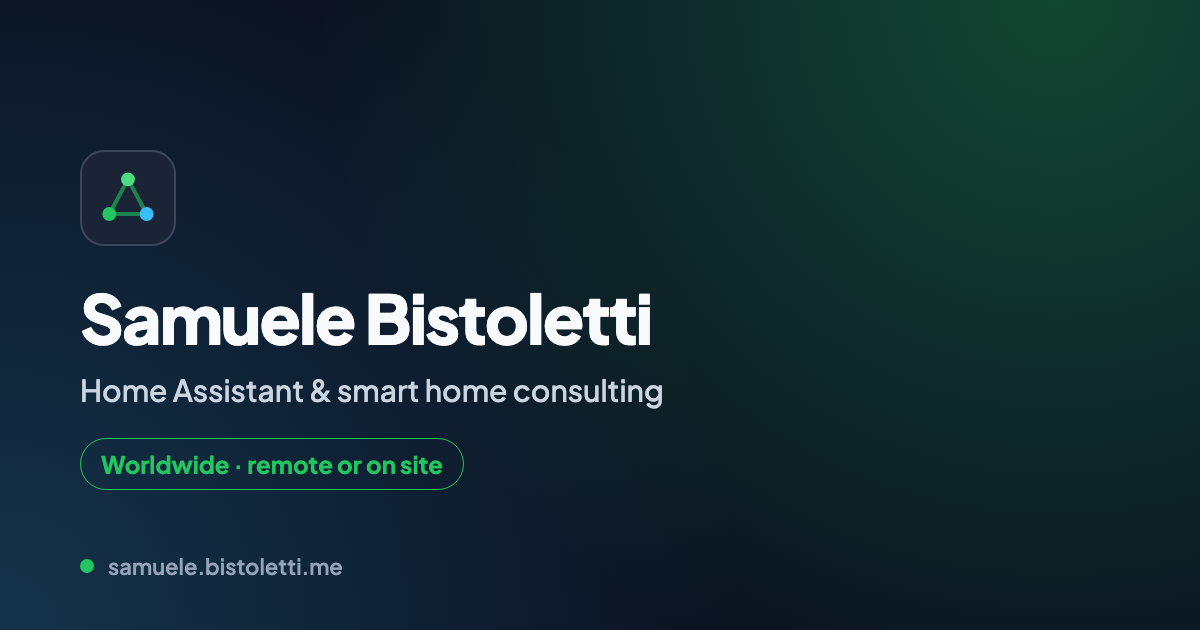
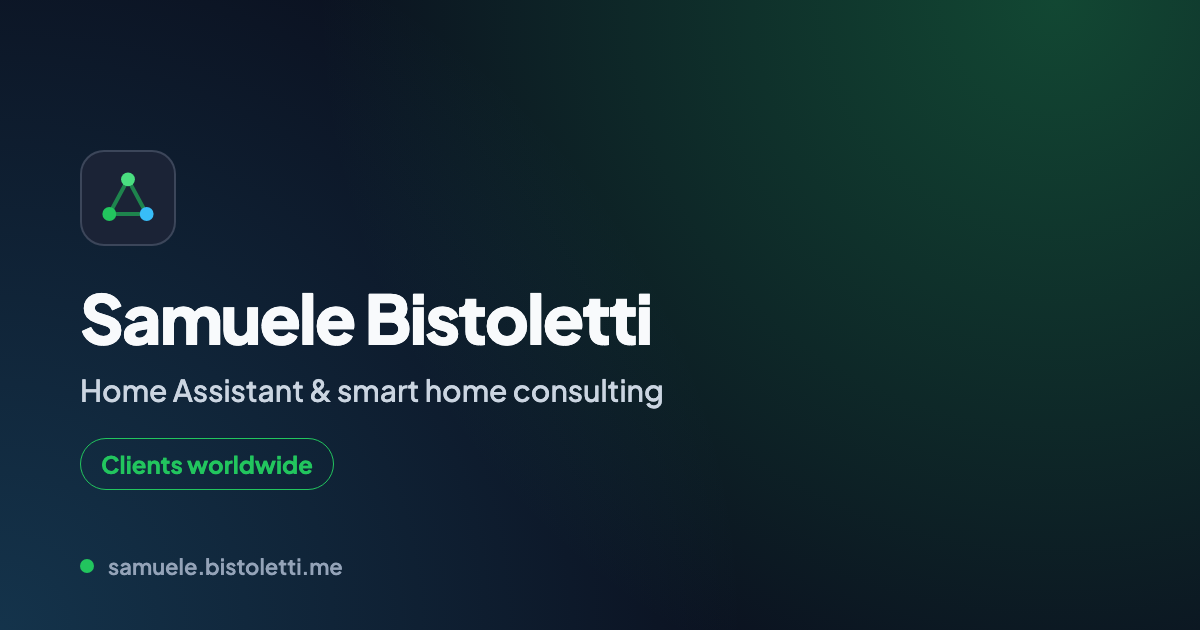
Say clients worldwide without remote/on-site wording
How the work is delivered is agreed with each client.

Claude-Session: https://claude.ai/code/session_015zqoz8zqJg5GfTg8uheYqB

Changed region(s): [[0.0617, 0.7238, 0.37, 0.754]]

diff --git a/it/index.html b/it/index.html
@@ -72,7 +72,7 @@
           "Internet of Things",
           "MQTT"
         ],
-        "description": "Consulente indipendente Home Assistant e domotica, in tutto il mondo, da remoto o in presenza.",
+        "description": "Consulente indipendente Home Assistant e domotica, per clienti in tutto il mondo.",
         "sameAs": [
           "https://github.com/samuelebistoletti",
           "https://www.linkedin.com/in/samuelebistoletti/"
@@ -82,7 +82,7 @@
         "@type": "Service",
         "name": "Consulenza Home Assistant e domotica",
         "serviceType": "Consulenza domotica",
-        "description": "Progettazione, configurazione, automazioni, gestione dell'energia e revisione di case smart con Home Assistant. In tutto il mondo, da remoto o in presenza.",
+        "description": "Progettazione, configurazione, automazioni, gestione dell'energia e revisione di case smart con Home Assistant, per clienti in tutto il mondo.",
         "provider": { "@id": "https://samuele.bistoletti.me/#person" },
         "areaServed": "Worldwide",
         "availableLanguage": ["it", "en"]
@@ -156,7 +156,7 @@
       <div class="wrap">
         <div class="hero-grid">
           <div class="hero-copy reveal">
-            <span class="pill"><span class="status-dot" aria-hidden="true"></span>In tutto il mondo · da remoto o in presenza</span>
+            <span class="pill"><span class="status-dot" aria-hidden="true"></span>Clienti in tutto il mondo</span>
             <h1><span class="h1-name">Samuele Bistoletti</span><span class="h1-sub">Consulenza Home Assistant e domotica</span></h1>
             <p class="hero-lead">
               <strong>Una casa smart che funziona davvero</strong>: semplice da usare, affidabile e sotto il tuo controllo.
@@ -386,7 +386,7 @@
           <div class="section-head">
             <span class="eyebrow">Prossimo passo</span>
             <h2>Parliamo della tua casa</h2>
-            <p>Un nuovo progetto o un impianto da migliorare: scegli il canale che preferisci. Lavoro con clienti in tutto il mondo, da remoto o in presenza a seconda del progetto.</p>
+            <p>Un nuovo progetto o un impianto da migliorare: scegli il canale che preferisci. Lavoro con clienti in tutto il mondo.</p>
           </div>
 
           <div class="grid-2 contact-grid">

diff --git a/index.html b/index.html
@@ -72,7 +72,7 @@
           "Internet of Things",
           "MQTT"
         ],
-        "description": "Independent Home Assistant and smart home consultant, working with clients worldwide, remotely or on site.",
+        "description": "Independent Home Assistant and smart home consultant, working with clients worldwide.",
         "sameAs": [
           "https://github.com/samuelebistoletti",
           "https://www.linkedin.com/in/samuelebistoletti/"
@@ -82,7 +82,7 @@
         "@type": "Service",
         "name": "Home Assistant & smart home consulting",
         "serviceType": "Home automation consulting",
-        "description": "Design, setup, automations, energy management and reviews of Home Assistant smart homes. Worldwide, remotely or on site.",
+        "description": "Design, setup, automations, energy management and reviews of Home Assistant smart homes, for clients worldwide.",
         "provider": { "@id": "https://samuele.bistoletti.me/#person" },
         "areaServed": "Worldwide",
         "availableLanguage": ["it", "en"]
@@ -156,7 +156,7 @@
       <div class="wrap">
         <div class="hero-grid">
           <div class="hero-copy reveal">
-            <span class="pill"><span class="status-dot" aria-hidden="true"></span>Worldwide · remote or on site</span>
+            <span class="pill"><span class="status-dot" aria-hidden="true"></span>Clients worldwide</span>
             <h1><span class="h1-name">Samuele Bistoletti</span><span class="h1-sub">Home Assistant &amp; smart home consulting</span></h1>
             <p class="hero-lead">
               <strong>A smart home that simply works</strong>: easy to use, reliable and under your control.
@@ -386,7 +386,7 @@
           <div class="section-head">
             <span class="eyebrow">Next step</span>
             <h2>Let's talk about your home</h2>
-            <p>A new project or a setup to improve: pick whichever channel suits you. I work with clients worldwide, remotely or on site depending on the project.</p>
+            <p>A new project or a setup to improve: pick whichever channel suits you. I work with clients worldwide.</p>
           </div>
 
           <div class="grid-2 contact-grid">
